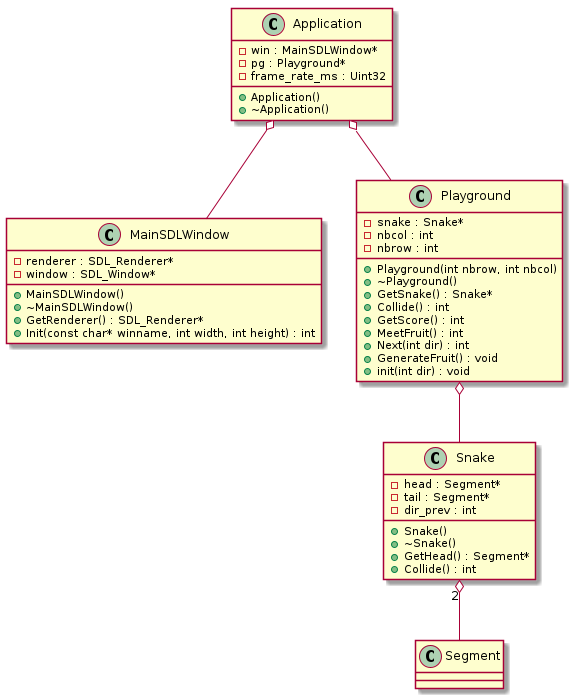
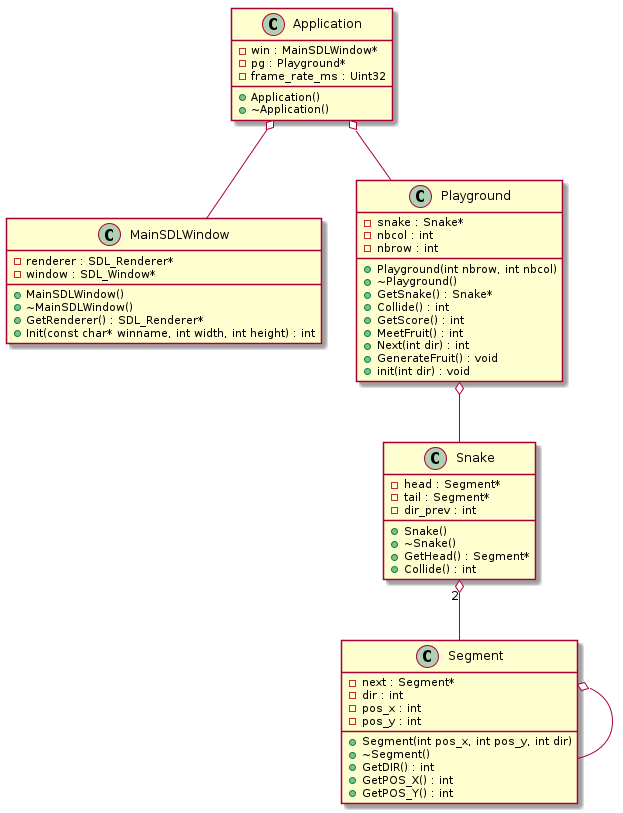
mercredi 02/02

diff --git a/test/testcarre.cpp b/test/testcarre.cpp
@@ -1,0 +1,123 @@
+#include "testcarre.hpp"
+#include <SDL2/SDL.h>
+
+#include <iostream>
+using namespace std;
+
+#include <stdio.h>
+#include <stdlib.h>
+
+int move_x = 0;
+int move_y = 0;
+
+
+
+MainSDLWindow::MainSDLWindow(void){
+    window = NULL;
+    renderer = NULL;
+}
+
+MainSDLWindow::~MainSDLWindow(void){
+
+}
+
+int MainSDLWindow::Init(const char *name, int largeur,int hauteur){
+
+    if (SDL_Init(SDL_INIT_VIDEO)<0)
+    {
+        cout << "Error: INIT() function failed";
+        return EXIT_FAILURE;
+    }
+
+    this->window = SDL_CreateWindow( name , SDL_WINDOWPOS_CENTERED , SDL_WINDOWPOS_CENTERED , largeur , hauteur, SDL_WindowFlags());
+    if (window == NULL) {
+        cout << "Error: SDL-CreateWindow() failed";
+        return EXIT_FAILURE;
+    }
+
+    this->renderer = SDL_CreateRenderer(window, -1, SDL_RENDERER_ACCELERATED);
+    if (renderer == NULL) {
+        cout << "Error: SDL-CreateRenderer() failed";
+        return EXIT_FAILURE;
+    }
+    SDL_SetRenderDrawColor(renderer,0,0,0, SDL_ALPHA_OPAQUE);
+    return EXIT_SUCCESS;
+}
+
+SDL_Renderer * MainSDLWindow::GetRenderer(void){
+    return this->renderer;
+}
+
+void MainSDLWindow::clear()
+{
+    SDL_DestroyWindow(window);
+    SDL_DestroyRenderer(renderer);
+}
+
+void keyboard() {
+    const Uint8 *keystates = SDL_GetKeyboardState(NULL);
+    if (keystates[SDL_SCANCODE_UP] &&  move_y !=10) {
+        move_x = 0;
+        move_y =-10;
+        }
+    if (keystates[SDL_SCANCODE_DOWN]  &&  move_y != -10){
+        move_x = 0;
+        move_y =10;
+    }
+    if (keystates[SDL_SCANCODE_LEFT]  &&  move_x != 10){
+        move_x = -10;
+        move_y = 0;
+    }
+    if (keystates[SDL_SCANCODE_RIGHT]  &&  move_x != -10){
+        move_x = 10;
+        move_y = 0;
+    }
+}
+
+int main(void) {
+    MainSDLWindow main_window;
+    int largeur;
+    int hauteur;
+    main_window.Init("salut", largeur = 500,  hauteur = 600);
+
+    SDL_Rect srcrect;
+        
+    srcrect.x = 250;
+    srcrect.y = 350;
+    srcrect.w = 20;
+    srcrect.h = 20;
+    while(true){
+        SDL_Delay(20);
+        int frame_time_start = SDL_GetTicks();
+
+        srcrect.x = srcrect.x+move_x;
+        srcrect.y = srcrect.y+move_y;
+
+        SDL_SetRenderDrawColor( main_window.GetRenderer(), 25, 25, 25, 0 );
+
+
+        SDL_RenderClear(  main_window.GetRenderer() );
+        SDL_SetRenderDrawColor( main_window.GetRenderer(), 255, 0, 0, 255 );
+
+        SDL_RenderFillRect(  main_window.GetRenderer(), &srcrect );
+        SDL_RenderPresent( main_window.GetRenderer());
+        SDL_SetRenderDrawColor( main_window.GetRenderer(), 25, 25, 25, 0 );
+        keyboard();
+  
+   
+        SDL_Event event;
+        if (SDL_PollEvent(&event)){
+            if (event.type == SDL_QUIT){
+
+                main_window.clear();
+                break;                
+            }      
+        }    
+        if (srcrect.x<0 ||srcrect.y<100 ||srcrect.x > largeur-srcrect.w || srcrect.y >hauteur-srcrect.h){
+            break;
+        }
+    SDL_Delay(SDL_GetTicks() - frame_time_start );
+
+    }
+    main_window.~MainSDLWindow();
+}

diff --git a/jeremy/letsgo/mainsdlwindow.cpp b/jeremy/letsgo/mainsdlwindow.cpp
@@ -1,0 +1,54 @@
+#include "mainsdlwindow.hpp"
+#include <SDL2/SDL.h>
+
+#include <iostream>
+using namespace std;
+
+#include <stdio.h>
+#include <stdlib.h>
+
+MainSDLWindow::MainSDLWindow(void){
+    window = NULL;
+    renderer = NULL;
+}
+
+MainSDLWindow::~MainSDLWindow(void){
+
+}
+
+int MainSDLWindow::Init(const char *name, int largeur,int hauteur){
+    
+    if (SDL_Init(SDL_INIT_VIDEO)<0)
+    {
+        cout << "Error: INIT() function failed";
+        return EXIT_FAILURE;
+    }
+
+    this->window = SDL_CreateWindow( name , SDL_WINDOWPOS_CENTERED , SDL_WINDOWPOS_CENTERED , largeur,hauteur, SDL_WindowFlags());
+    if (window == NULL) {
+        cout << "Error: SDL-CreateWindow() failed";
+        return EXIT_FAILURE;
+    }
+
+    this->renderer = SDL_CreateRenderer(window, -1, SDL_RENDERER_ACCELERATED);
+    if (renderer == NULL) {
+        cout << "Error: SDL-CreateRenderer() failed";
+        return EXIT_FAILURE;
+    }
+
+
+    SDL_SetRenderDrawColor(renderer,0,0,0, SDL_ALPHA_OPAQUE);
+
+    
+    
+    return EXIT_SUCCESS;
+}
+
+SDL_Renderer * MainSDLWindow::GetRenderer(void){
+    return this->renderer;
+}
+
+int main(void) {
+    MainSDLWindow main_window;
+    main_window.Init("salut", 200,200);
+}

diff --git a/jeremy/letsgo/playground.hpp b/jeremy/letsgo/playground.hpp
@@ -1,0 +1,20 @@
+#include <SDL2/SDL.h>
+#include "snake.hpp"
+using namespace std;
+class Playground {
+    private:
+        Snake * snake;
+        int nbcol;
+        int nbrow;
+    public:
+        Playground(int nbrow, int nbcol);
+        ~Playground();
+        Snake * GetSnake();
+        int Collide();
+        int GetScore();
+        int MeetFruit();
+        int Next(int dir);
+        void GenerateFruit();
+        void init(int dir);
+
+};

diff --git a/jeremy/letsgo/segment.cpp b/jeremy/letsgo/segment.cpp
@@ -1,0 +1,25 @@
+#include "segment.hpp"
+using namespace std;
+
+Segment::Segment(int pos_x, int pos_y, int dir){
+    this->pos_x=pos_x;
+    this->pos_y=pos_y;
+    this->dir=dir;
+    this->next=NULL;
+}
+
+Segment::~Segment(void){
+}
+
+int Segment::GetPOS_X(void){
+    return this->pos_x;
+
+}
+
+int Segment::GetPOS_Y(void){
+    return this->pos_y;
+}
+
+int Segment::GetDIR(void){
+    return this->dir;
+}

diff --git a/jeremy/letsgo/snake.hpp b/jeremy/letsgo/snake.hpp
@@ -1,0 +1,18 @@
+#include <SDL2/SDL.h>
+#include "segment.cpp"
+using namespace std;
+class Snake {
+    private:
+        Segment * head;
+        Segment * tail;
+    public:
+        Snake();
+        ~Snake();
+        Segment * GetHead();
+        int Collide();
+        int Move();
+        int GrowFront();
+        int DeleteLast();
+        int Eat();
+
+};

diff --git a/jeremy/letsgo/snake.cpp b/jeremy/letsgo/snake.cpp
@@ -1,0 +1,25 @@
+#include <SDL2/SDL.h>
+#include "snake.hpp"
+using namespace std;
+
+Snake::Snake(){
+    Segment *newSegment =  new Segment(int pos_x,int pos_y,int dir);
+
+
+}
+
+Snake::~Snake(){
+}
+
+int Snake::Collide(){
+
+}
+
+Segment * Snake::GetHead(){
+    return this-> head;
+}
+
+int Move(){
+    DeleteLast();
+    GrowFront();
+}

diff --git a/test/testcarre.hpp b/test/testcarre.hpp
@@ -1,0 +1,14 @@
+#include <SDL2/SDL.h>
+using namespace std;
+
+class MainSDLWindow {
+public:
+    MainSDLWindow();
+    ~MainSDLWindow();
+    int Init(const char *name, int largeur, int hauteur);
+    void clear();
+    SDL_Renderer * GetRenderer(void);
+private:
+    SDL_Window * window;
+    SDL_Renderer * renderer; 
+};

diff --git a/jeremy/premiertest.hpp b/jeremy/premiertest.hpp
@@ -57,5 +57,15 @@ class Snake {
 };
 
 class Segment {
-
+    private :
+        Segment* next;
+        int pos_x;
+        int pos_y;
+        int dir;
+    public :
+        int GetPOS_X(void);
+        int GetPOS_Y(void);
+        int GetDIR(void);
+        Segment(int pos_x, int pos_y, int dir);
+        ~Segment();
 };

diff --git a/jeremy/letsgo/segment.hpp b/jeremy/letsgo/segment.hpp
@@ -1,0 +1,14 @@
+using namespace std;
+class Segment {
+    private :
+        Segment* next;
+        int pos_x;
+        int pos_y;
+        int dir;
+    public :
+        int GetPOS_X(void);
+        int GetPOS_Y(void);
+        int GetDIR(void);
+        Segment(int pos_x, int pos_y, int dir);
+        ~Segment();
+};

diff --git a/jeremy/letsgo/mainsdlwindow.hpp b/jeremy/letsgo/mainsdlwindow.hpp
@@ -1,0 +1,13 @@
+#include <SDL2/SDL.h>
+using namespace std;
+
+class MainSDLWindow {
+public:
+    MainSDLWindow();
+    ~MainSDLWindow();
+    int Init(const char *name, int largeur, int hauteur);
+    SDL_Renderer * GetRenderer(void);
+private:
+    SDL_Window * window;
+    SDL_Renderer * renderer; 
+}; 

diff --git a/jeremy/letsgo/application.hpp b/jeremy/letsgo/application.hpp
@@ -1,0 +1,14 @@
+#include <SDL2/SDL.h>
+#include "playground.hpp"
+#include "mainsdlwindow.hpp"
+using namespace std;
+class Application {
+    private:
+        MainSDLWindow * win;
+        Playground * pg;
+        Uint32 frame_rate_ms;
+    public:
+        Application();
+        ~Application();
+
+};
